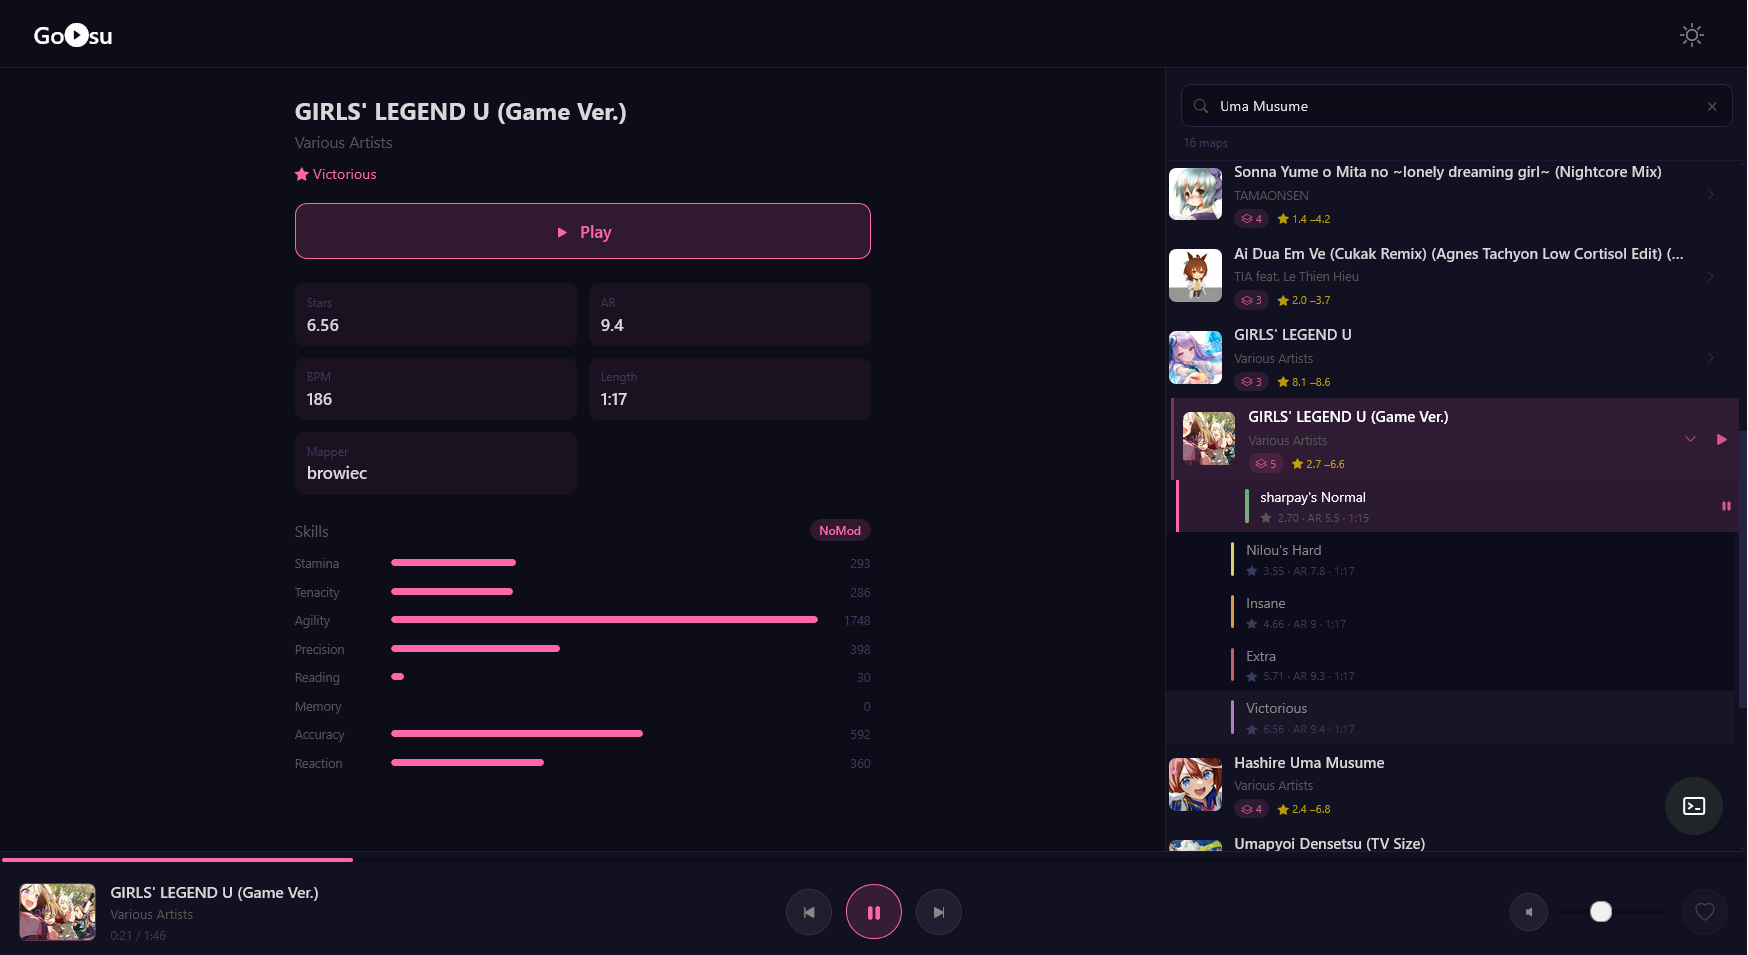
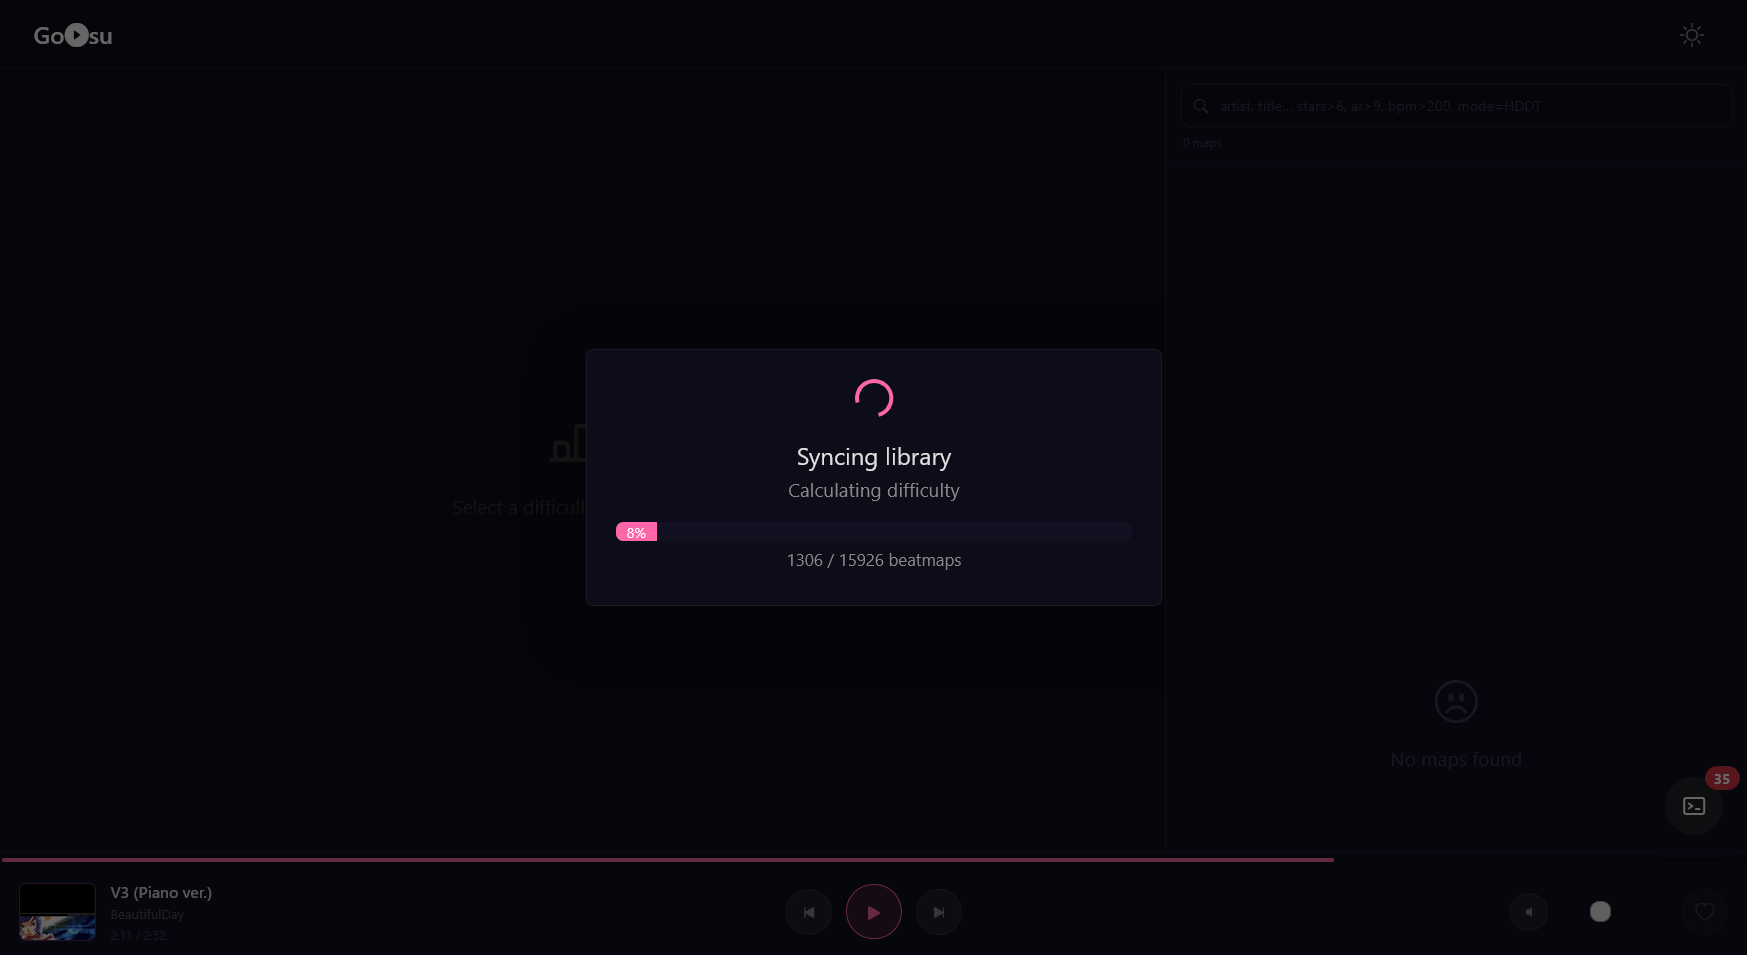
eng lang, fix images

diff --git a/frontend/src/elements/SyncOverlay.vue b/frontend/src/elements/SyncOverlay.vue
@@ -30,21 +30,21 @@ const mainProgress = computed(() => {
 // иначе лейбл дёргается между "Расчёт сложности" и "Запись в базу"
 // каждые ~500мс, что выглядит как глюк, а не прогресс.
 const stageLabel = computed(() => {
-  if (finished.value) return 'Готово'
+  if (finished.value) return 'Done'
 
   const calc = byKey['calc_progress']
-  if (calc && calc.done < calc.total) return 'Расчёт сложности'
+  if (calc && calc.done < calc.total) return 'Calculating difficulty'
 
   const ev = latest.value
-  if (!ev) return 'Подключение…'
+  if (!ev) return 'Connecting…'
 
   switch (ev.stage) {
     case 'read_db':
-      return 'Чтение osu!.db'
+      return 'Reading osu!.db'
     case 'diff':
-      return 'Сравнение с базой'
+      return 'Comparing with database'
     case 'write':
-      return 'Запись в базу'
+      return 'Writing to database'
     default:
       return ev.stage
   }
@@ -63,10 +63,10 @@ const recentErrors = computed(() => errorEvents.value.slice(-5).reverse())
       <div class="card shadow-lg" style="max-width: 480px; width: 100%">
         <div class="card-body text-center p-4">
           <div class="spinner-border text-primary mb-3" role="status">
-            <span class="visually-hidden">Синхронизация…</span>
+            <span class="visually-hidden">Syncing…</span>
           </div>
 
-          <h5 class="card-title mb-1">Синхронизация библиотеки</h5>
+          <h5 class="card-title mb-1">Syncing library</h5>
           <p class="text-body-secondary mb-3">{{ stageLabel }}</p>
 
           <div v-if="mainProgress" class="mb-1">
@@ -81,20 +81,20 @@ const recentErrors = computed(() => errorEvents.value.slice(-5).reverse())
                 {{ mainProgress.percent }}%
               </div>
             </div>
-            <div class="form-text mt-1 mb-0">{{ mainProgress.done }} / {{ mainProgress.total }} карт</div>
+            <div class="form-text mt-1 mb-0">{{ mainProgress.done }} / {{ mainProgress.total }} beatmaps</div>
           </div>
-          <div v-else class="progress mb-1" role="progressbar" aria-label="Синхронизация">
+          <div v-else class="progress mb-1" role="progressbar" aria-label="Syncing">
             <div class="progress-bar progress-bar-striped progress-bar-animated w-100"></div>
           </div>
 
           <div v-if="!connected" class="alert alert-warning small mt-3 mb-0 py-2">
-            Соединение с сервером потеряно — ждём переподключения…
+            Connection to server lost — reconnecting…
           </div>
 
           <div v-if="recentErrors.length" class="mt-3 text-start">
             <details>
               <summary class="small text-danger" role="button">
-                Ошибок при синхронизации: {{ errorEvents.length }}
+                Sync errors: {{ errorEvents.length }}
               </summary>
               <ul class="list-unstyled small text-body-secondary mt-2 mb-0">
                 <li v-for="(ev, i) in recentErrors" :key="i" class="text-truncate">{{ ev.error }}</li>

diff --git a/frontend/src/elements/LogPanel.vue b/frontend/src/elements/LogPanel.vue
@@ -30,7 +30,7 @@ const unreadCount = computed(() => (open.value ? 0 : logs.value.length))
       type="button"
       class="btn btn-dark rounded-circle log-toggle position-fixed shadow d-flex align-items-center justify-content-center"
       @click="open = !open"
-      :title="open ? 'Скрыть журнал' : 'Показать журнал'"
+      :title="open ? 'Hide log' : 'Show log'"
   >
     <!-- простая иконка терминала, без bootstrap-icons -->
     <svg width="20" height="20" viewBox="0 0 24 24" fill="none" stroke="currentColor" stroke-width="2">
@@ -49,19 +49,19 @@ const unreadCount = computed(() => (open.value ? 0 : logs.value.length))
     <div v-if="open" class="log-panel position-fixed shadow-lg d-flex flex-column">
       <div class="d-flex align-items-center justify-content-between px-3 py-2 border-bottom">
         <div class="d-flex align-items-center gap-2">
-          <strong class="small">Журнал</strong>
+          <strong class="small">Log</strong>
           <span class="badge rounded-pill" :class="connected ? 'text-bg-success' : 'text-bg-secondary'">
-            {{ connected ? 'онлайн' : 'нет связи' }}
+            {{ connected ? 'online' : 'offline' }}
           </span>
         </div>
         <div class="d-flex align-items-center gap-2">
-          <button type="button" class="btn btn-sm btn-outline-secondary" @click="clear">Очистить</button>
-          <button type="button" class="btn-close" @click="open = false" aria-label="Закрыть"></button>
+          <button type="button" class="btn btn-sm btn-outline-secondary" @click="clear">Clear</button>
+          <button type="button" class="btn-close" @click="open = false" aria-label="Close"></button>
         </div>
       </div>
 
       <div class="flex-grow-1 overflow-auto px-3 py-2 font-monospace log-body">
-        <p v-if="!logs.length" class="text-body-secondary small mb-0">Пока пусто</p>
+        <p v-if="!logs.length" class="text-body-secondary small mb-0">Nothing yet</p>
         <div v-for="(entry, i) in logs" :key="i" class="log-entry small mb-1">
           <span class="text-body-secondary">{{ formatTime(entry.time) }}</span>
           <span class="badge ms-2" :class="badgeClass(entry.level)">{{ entry.level }}</span>
